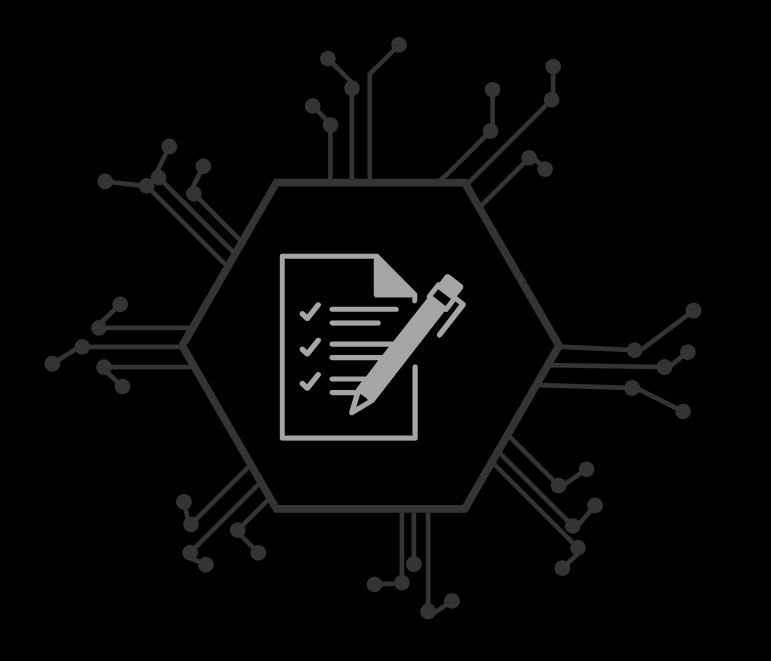
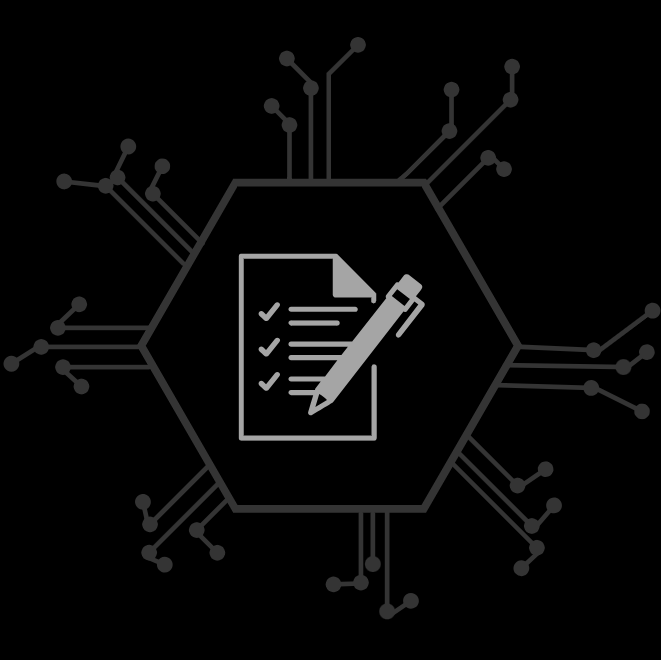
main page update

diff --git a/style.css b/style.css
@@ -9,16 +9,18 @@
 body {background-color: black;}
 
 .home{
-    border: 2px solid white;
+    
     display: flex;
     justify-content: center;
     align-items: center;  
-    width: 30% 
+    height: 700px;
+   
 }
 
 .home-text {
-    height: 50px;
+    
     width: 300px;   
+    margin-right: 50px;
 }
 
 .title{
@@ -37,12 +39,12 @@ body {background-color: black;}
     height: 35px;
     width: 300px;
     display: flex;
-    
+    font-size: 0.85rem;
 }
 
 .button-white{
     padding: 5px;
-    width: 100px;
+    width: 110px;
     background-color: white;
     color: black;
     display: flex;
@@ -52,17 +54,31 @@ body {background-color: black;}
 
 .button-black{
     padding: 5px;
-    width: 100px;
+    width: 110px;
     border-style: solid;
     border-width: 1px;
     border-color: white;
-    margin-left: 50px; 
+    margin-left: 70px; 
     display: flex;
     justify-content: center;
     align-items: center; 
 }
 
+.home-circle{
+    margin-top: 35px;
+    display: flex;
+    justify-content: center;
+    align-items: center;
+}
+
+.home-circle i{
+    margin: 10px;
+}
 .home-img{
-    height: 50px;
-    width: 300px;  
+    
+    background-image: url('images/home_image.png');
+    background-size: cover;
+    object-fit: contain;
+    width: 450px;
+    height: 450px;  
 }

diff --git a/index.html b/index.html
@@ -18,6 +18,7 @@
             <p>Explore a new era of document validation using blockchain technology. Ensure authenticity and security with our user-friendly platform, making verification simple and tamper-proof.</p>
             
             <div class="button">
+
                 <div class="button-white">
                     sign in
                 </div>
@@ -26,8 +27,15 @@
                    log in
                 </div>
             </div>
+
+            <div class="home-circle">
+                <i class="fa-solid fa-circle"></i>
+                <i class="fa-solid fa-circle"></i>
+                <i class="fa-solid fa-circle"></i>
+                <i class="fa-solid fa-circle"></i>
+            </div>
         </div>
-        
+
         <div class="home-img"> 
 
         </div>
